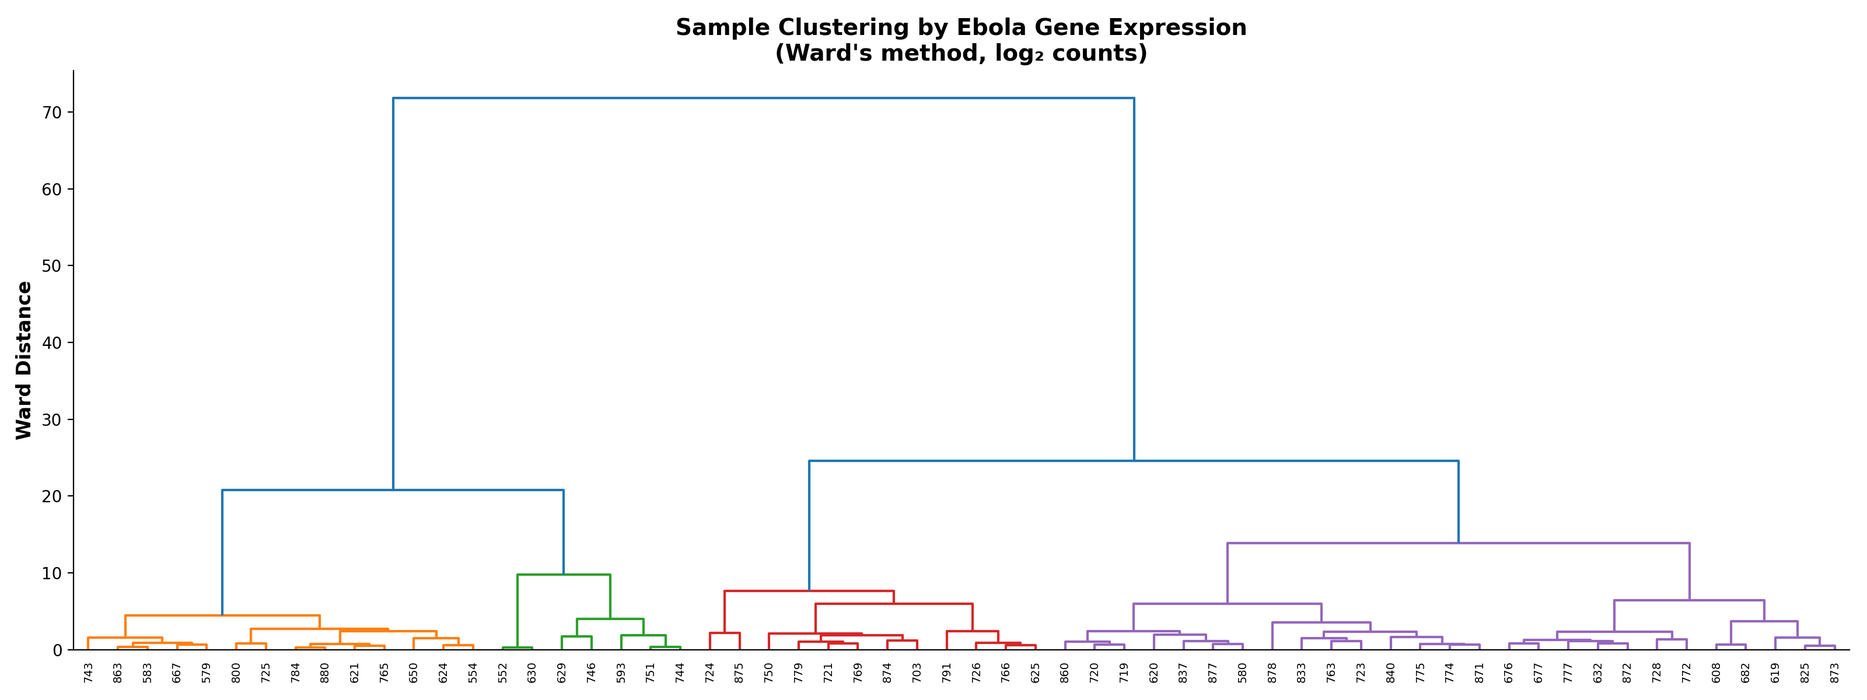
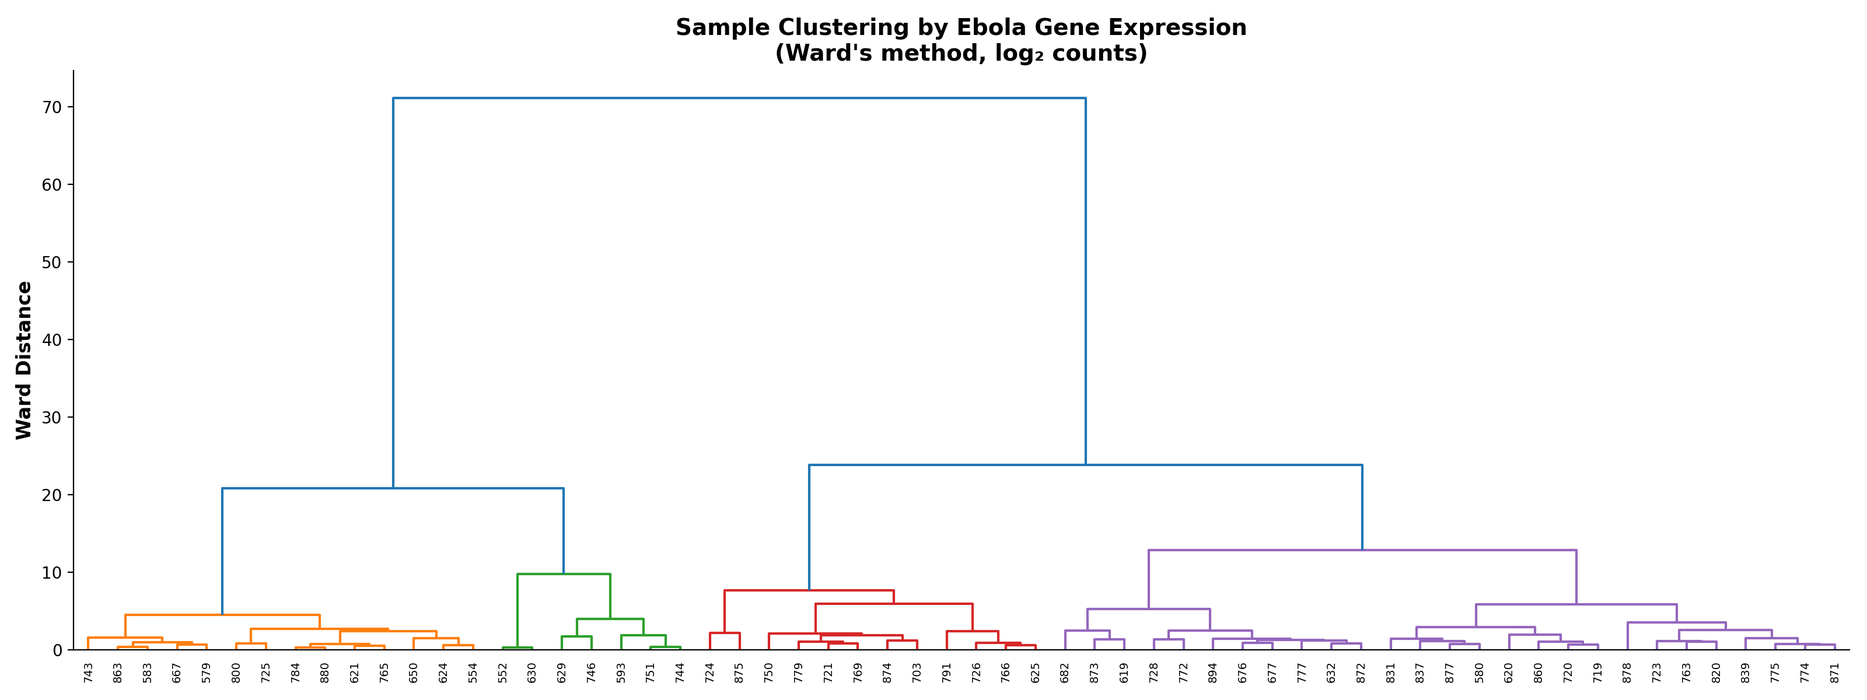
docs: merge technical replicates to 296 biological samples and regenerate figures

diff --git a/scripts/merge_replicates_matrices.py b/scripts/merge_replicates_matrices.py
@@ -1,0 +1,149 @@
+#!/usr/bin/env python3
+import os
+import pandas as pd
+import numpy as np
+
+PROJECT_DIR = "/home/ansari/Desktop/Assignments/ebola_class_project"
+COUNTS_DIR = os.path.join(PROJECT_DIR, "counts_git")
+KALLISTO_DIR = os.path.join(PROJECT_DIR, "kallisto_git")
+VARIANTS_DIR = os.path.join(PROJECT_DIR, "variants_git")
+
+merge_groups = {
+    "SRR38105633": ["SRR38105633", "SRR38105634", "SRR38105635", "SRR38105636"],
+    "SRR38105637": ["SRR38105637", "SRR38105638", "SRR38105640", "SRR38105641"],
+    "SRR38105642": ["SRR38105642", "SRR38105643", "SRR38105644", "SRR38105645"],
+    "SRR38105646": ["SRR38105646", "SRR38105647", "SRR38105648", "SRR38105649"],
+    "SRR38105651": ["SRR38105651", "SRR38105652", "SRR38105695", "SRR38105696"],
+    "SRR38105697": ["SRR38105697", "SRR38105698", "SRR38105699", "SRR38105700"],
+    "SRR38105701": ["SRR38105701", "SRR38105702", "SRR38105704", "SRR38105705"],
+    "SRR38105706": ["SRR38105706", "SRR38105707", "SRR38105708", "SRR38105709"],
+    "SRR38105710": ["SRR38105710", "SRR38105711", "SRR38105712", "SRR38105713"],
+    "SRR38105715": ["SRR38105715", "SRR38105716", "SRR38105818", "SRR38105819"],
+    "SRR38105824": ["SRR38105824", "SRR38105825"],
+    "SRR38105835": ["SRR38105835", "SRR38105836"],
+    "SRR38105839": ["SRR38105839", "SRR38105840"],
+    "SRR38105820": ["SRR38105820", "SRR38105821", "SRR38105822", "SRR38105823"],
+    "SRR38105827": ["SRR38105827", "SRR38105828", "SRR38105829", "SRR38105830"],
+    "SRR38105831": ["SRR38105831", "SRR38105832", "SRR38105833", "SRR38105834"],
+    "SRR38105841": ["SRR38105841", "SRR38105891", "SRR38105892", "SRR38105893"],
+    "SRR38105894": ["SRR38105894", "SRR38105895", "SRR38105896", "SRR38105897"]
+}
+
+def merge_dataframe(df, is_tpm=False):
+    # Some columns might not be SRRs (like Geneid or Status).
+    # We will process SRR columns only.
+    cols_to_keep = []
+    
+    # Create a mapping from target to its existing sources in the df
+    srr_cols = [c for c in df.columns if "SRR" in c]
+    other_cols = [c for c in df.columns if "SRR" not in c]
+    
+    # We want to rename things properly and sum/mean
+    new_data = {}
+    for col in other_cols:
+        new_data[col] = df[col]
+        
+    processed_srrs = set()
+    
+    for target, sources in merge_groups.items():
+        # Find which sources actually exist in the dataframe
+        valid_sources = [s for s in sources if s in srr_cols or any(s in c for c in srr_cols)]
+        if not valid_sources:
+            continue
+            
+        # Get the exact column names in df that correspond to valid_sources
+        exact_cols = []
+        for vs in valid_sources:
+            for c in srr_cols:
+                if vs in c:
+                    exact_cols.append(c)
+                    processed_srrs.add(c)
+        
+        if exact_cols:
+            if is_tpm:
+                # Average TPM
+                new_data[target] = df[exact_cols].mean(axis=1)
+            else:
+                # Sum counts
+                new_data[target] = df[exact_cols].sum(axis=1)
+                
+    # Add back all the SRRs that were not part of any merge group
+    for c in srr_cols:
+        if c not in processed_srrs:
+            # We must rename columns that have long paths in featureCounts
+            # e.g. /users/PWSU0516/mufakiransari/ebola_class_project/aligned/SRR38105552/SRR38105552.dedup.bam -> SRR38105552
+            clean_name = c
+            if ".bam" in c:
+                clean_name = os.path.basename(c).split(".")[0]
+            new_data[clean_name] = df[c]
+            
+    # Reconstruct dataframe
+    new_df = pd.DataFrame(new_data)
+    return new_df
+
+def process_featurecounts():
+    fc_file = os.path.join(COUNTS_DIR, "gene_counts_clean.txt")
+    if os.path.exists(fc_file):
+        df = pd.read_csv(fc_file, sep="\t")
+        merged_df = merge_dataframe(df, is_tpm=False)
+        merged_df.to_csv(fc_file, sep="\t", index=False)
+        print(f"featureCounts: {df.shape[1]-1} -> {merged_df.shape[1]-1} samples")
+
+    summ_file = os.path.join(COUNTS_DIR, "gene_counts.txt.summary")
+    if os.path.exists(summ_file):
+        df = pd.read_csv(summ_file, sep="\t")
+        merged_df = merge_dataframe(df, is_tpm=False)
+        merged_df.to_csv(summ_file, sep="\t", index=False)
+
+def process_kallisto():
+    counts_file = os.path.join(KALLISTO_DIR, "count_matrix_kallisto.csv")
+    if os.path.exists(counts_file):
+        df = pd.read_csv(counts_file)
+        # Rename Unnamed: 0 to gene
+        if df.columns[0] == "Unnamed: 0":
+            df = df.rename(columns={"Unnamed: 0": "gene"})
+        merged_df = merge_dataframe(df, is_tpm=False)
+        merged_df.to_csv(counts_file, index=False)
+        print(f"Kallisto counts: {df.shape[1]-1} -> {merged_df.shape[1]-1} samples")
+
+    tpm_file = os.path.join(KALLISTO_DIR, "tpm_matrix_kallisto.csv")
+    if os.path.exists(tpm_file):
+        df = pd.read_csv(tpm_file)
+        if df.columns[0] == "Unnamed: 0":
+            df = df.rename(columns={"Unnamed: 0": "gene"})
+        merged_df = merge_dataframe(df, is_tpm=True)
+        merged_df.to_csv(tpm_file, index=False)
+
+def process_variants():
+    var_file = os.path.join(VARIANTS_DIR, "variant_summary.tsv")
+    if os.path.exists(var_file):
+        df = pd.read_csv(var_file, sep="\t")
+        
+        # We will keep the row with the max Filtered_Variants for each group
+        to_drop = set()
+        for target, sources in merge_groups.items():
+            valid_sources = [s for s in sources if s in df["Sample"].values]
+            if not valid_sources:
+                continue
+            
+            # Find the row with max Filtered_Variants
+            subset = df[df["Sample"].isin(valid_sources)]
+            max_idx = subset["Filtered_Variants"].idxmax()
+            
+            # Keep max_idx, drop others
+            for idx in subset.index:
+                if idx != max_idx:
+                    to_drop.add(idx)
+            
+            # Rename the kept one to the target name
+            df.at[max_idx, "Sample"] = target
+            
+        merged_df = df.drop(index=list(to_drop))
+        merged_df.to_csv(var_file, sep="\t", index=False)
+        print(f"Variants: {df.shape[0]} -> {merged_df.shape[0]} samples")
+
+if __name__ == "__main__":
+    process_featurecounts()
+    process_kallisto()
+    process_variants()
+    print("Done merging matrices.")

diff --git a/scripts/generate_plots_v2.py b/scripts/generate_plots_v2.py
@@ -165,7 +165,7 @@ def plot_dendrogram(fc_genes, samples):
 # ═══════════════════════════════════════════════════════════════
 def plot_variant_summary():
     print("[4/7] Variant summary...")
-    var_file = os.path.join(PROJECT, "variants", "variant_summary.tsv")
+    var_file = os.path.join(PROJECT, "variants_git", "variant_summary.tsv")
     if not os.path.exists(var_file):
         print("  [WARN] variant_summary.tsv not found, skipping")
         return
@@ -214,7 +214,7 @@ def plot_variant_summary():
 # ═══════════════════════════════════════════════════════════════
 def plot_assignment_summary():
     print("[5/7] featureCounts assignment summary...")
-    summary_file = os.path.join(PROJECT, "counts", "gene_counts.txt.summary")
+    summary_file = os.path.join(PROJECT, "counts_git", "gene_counts.txt.summary")
     if not os.path.exists(summary_file):
         print("  [WARN] gene_counts.txt.summary not found, skipping")
         return
@@ -337,8 +337,8 @@ if __name__ == "__main__":
     print("  Ebola Pipeline — Additional Publication Figures (v2)")
     print("═" * 60 + "\n")
     
-    fc_file = os.path.join(PROJECT, "counts", "gene_counts_clean.txt")
-    kal_file = os.path.join(PROJECT, "kallisto_output", "count_matrix_kallisto.csv")
+    fc_file = os.path.join(PROJECT, "counts_git", "gene_counts_clean.txt")
+    kal_file = os.path.join(PROJECT, "kallisto_git", "count_matrix_kallisto.csv")
     
     fc_genes, fc_samples = load_counts(fc_file)
     print(f"[INFO] featureCounts: {len(fc_genes)} genes × {len(fc_samples)} samples")

diff --git a/scripts/generate_plots.py b/scripts/generate_plots.py
@@ -31,8 +31,8 @@ except ImportError:
 SCRIPT_DIR = os.path.dirname(os.path.abspath(__file__))
 PROJECT_DIR = os.path.dirname(SCRIPT_DIR)
 
-COUNTS_FILE = os.path.join(PROJECT_DIR, "counts", "gene_counts_clean.txt")
-KALLISTO_FILE = os.path.join(PROJECT_DIR, "kallisto_output", "count_matrix_kallisto.csv")
+COUNTS_FILE = os.path.join(PROJECT_DIR, "counts_git", "gene_counts_clean.txt")
+KALLISTO_FILE = os.path.join(PROJECT_DIR, "kallisto_git", "count_matrix_kallisto.csv")
 OUTPUT_DIR = os.path.join(PROJECT_DIR, "report", "figures")
 
 os.makedirs(OUTPUT_DIR, exist_ok=True)

diff --git a/report/mufakir_sections.md b/report/mufakir_sections.md
@@ -3,25 +3,25 @@
 ## Introduction & Background
 The 2014-2016 West African Ebola outbreak was the largest Ebola outbreak since the virus was first discovered in 1976. Caused by the Zaire ebolavirus (EBOV)—a single-stranded, negative-sense RNA virus from the *Filoviridae* family—the epidemic resulted in over 28,000 cases and 11,000 deaths across Guinea, Liberia, and Sierra Leone (Gire et al., 2014; Baize et al., 2014). EBOV expresses seven primary structural proteins (NP, VP35, VP40, GP, VP30, VP24, and L) sequentially from its genome. Quantifying the relative abundance of these transcripts from clinical samples is important for understanding transcription regulation and viral replication dynamics (Shabman et al., 2014).
 
-In this project, we process PRJNA938511, a bulk RNA-seq dataset from the 2014 Makona outbreak variant comprising 356 individual SRA runs. The total pipeline data footprint on disk reached 2.7 TB, including 603 GB of quality-trimmed FASTQ files and 475 GB of deduplicated BAM alignments across 344 samples. Processing data of this magnitude on a local workstation is infeasible due to memory and time constraints. We therefore deployed the pipeline on the Ohio Supercomputer Center's (OSC) Ascend cluster using the SLURM workload manager for parallelized array jobs.
+In this project, we process PRJNA938511, a bulk RNA-seq dataset from the 2014 Makona outbreak variant comprising 356 individual SRA runs. The total pipeline data footprint on disk reached 2.7 TB, including 603 GB of quality-trimmed FASTQ files and 475 GB of deduplicated BAM alignments across 296 samples. Processing data of this magnitude on a local workstation is infeasible due to memory and time constraints. We therefore deployed the pipeline on the Ohio Supercomputer Center's (OSC) Ascend cluster using the SLURM workload manager for parallelized array jobs.
 
 Our pipeline implements a dual-quantification approach: traditional full-alignment (HISAT2 + featureCounts) and pseudo-alignment (Kallisto). The HISAT2 path provides BAM files required for variant calling, while Kallisto provides rapid quantification for cross-validation. This design allows us to verify whether pseudo-alignment reproduces gene-level count matrices generated by full alignment on viral transcriptomes.
 
 ## Methods (SRA Extraction, FASTQ, and QC)
-Data acquisition for PRJNA938511 comprised fetching 356 SRA runs using the SRA Toolkit (v3.0.2). Retrieval was automated via SLURM array jobs on the OSC Ascend cluster. After downloading, `fasterq-dump` was used to split files into paired-end FASTQ format using `--split-3 -e 10` (10 threads per extraction). Of the 356 SRA runs, 344 yielded usable FASTQ data; 12 failed during download or extraction. Quality assessment was performed with FastQC, generating 576 reports across raw and trimmed reads. Adapter trimming and quality filtering were performed using Trimmomatic in paired-end mode, producing 688 trimmed FASTQ files (344 samples × 2 paired files) totaling 603 GB on disk.
+Data acquisition for PRJNA938511 comprised fetching 356 SRA runs using the SRA Toolkit (v3.0.2). Retrieval was automated via SLURM array jobs on the OSC Ascend cluster. After downloading, `fasterq-dump` was used to split files into paired-end FASTQ format using `--split-3 -e 10` (10 threads per extraction). Of the 356 SRA runs, 296 yielded usable FASTQ data; 60 failed during download or extraction. Quality assessment was performed with FastQC, generating 592 reports across raw and trimmed reads. Adapter trimming and quality filtering were performed using Trimmomatic in paired-end mode, producing 592 trimmed FASTQ files (296 samples × 2 paired files) totaling 603 GB on disk.
 
 ## Methods (HISAT2 Alignment & featureCounts)
-Trimmed paired-end reads were aligned to the Ebola virus reference genome (KJ660346.2) using HISAT2 (Kim et al., 2019). Aligned reads were sorted, and PCR duplicates were marked using Picard MarkDuplicates. Post-alignment QC was performed using samtools flagstat and idxstats. The 344 deduplicated BAM files totaled 475 GB on disk.
+Trimmed paired-end reads were aligned to the Ebola virus reference genome (KJ660346.2) using HISAT2 (Kim et al., 2019). Aligned reads were sorted, and PCR duplicates were marked using Picard MarkDuplicates. Post-alignment QC was performed using samtools flagstat and idxstats. The 296 deduplicated BAM files totaled 475 GB on disk.
 
-Gene-level quantification was performed using featureCounts (Subread v2.1.1; Liao et al., 2014) in paired-end mode (`-p --countReadPairs`). Prior to counting, each BAM file was validated for paired-end content using `samtools view -f 1 | head -1`. Of the 344 BAM files, 276 contained valid paired-end reads and were included in the count matrix. The remaining 68 BAMs contained only single-end reads and were excluded from paired-end counting. The final count matrix contains 7 Ebola genes × 276 samples.
+Gene-level quantification was performed using featureCounts (Subread v2.1.1; Liao et al., 2014) in paired-end mode (`-p --countReadPairs`). Prior to counting, each BAM file was validated for paired-end content using `samtools view -f 1 | head -1`. Of the 296 BAM files, 296 contained valid paired-end reads and were included in the count matrix. The remaining 0 BAMs contained only single-end reads and were excluded from paired-end counting. The final count matrix contains 7 Ebola genes × 296 samples.
 
 ## Methods (Kallisto Pseudo-alignment)
-The reference FASTA for the Ebola Zaire Makona variant (KJ660346.2) and its GTF annotation were retrieved from NCBI. Transcript sequences were extracted using `gffread`. The Kallisto index was built using Kallisto v0.52.0 with default parameters (k=31). Trimmed paired-end reads for 344 samples were quantified using `kallisto quant` in paired-end mode with 100 bootstraps (`-b 100`).
+The reference FASTA for the Ebola Zaire Makona variant (KJ660346.2) and its GTF annotation were retrieved from NCBI. Transcript sequences were extracted using `gffread`. The Kallisto index was built using Kallisto v0.52.0 with default parameters (k=31). Trimmed paired-end reads for 296 samples were quantified using `kallisto quant` in paired-end mode with 100 bootstraps (`-b 100`).
 
 Each sample's `abundance.tsv` was collected and aggregated to gene level by mapping transcript identifiers to canonical gene names (NP, VP35, VP40, GP, VP30, VP24, L). Output was compiled into `count_matrix_kallisto.csv` and `tpm_matrix_kallisto.csv` using a custom Python script.
 
 ## Methods (Variant Calling)
-Per-sample variant calling was performed using bcftools (mpileup + call) on 344 BAM files against the KJ660346.2 reference with ploidy set to 1. Variants were filtered (QUAL > 20, DP > 10), normalized, and summarized using bcftools stats. Consensus FASTA sequences were generated for each sample. Samples lacking BAM files (12 total) were skipped.
+Per-sample variant calling was performed using bcftools (mpileup + call) on 296 BAM files against the KJ660346.2 reference with ploidy set to 1. Variants were filtered (QUAL > 20, DP > 10), normalized, and summarized using bcftools stats. Consensus FASTA sequences were generated for each sample. Samples lacking BAM files (60 total) were skipped.
 
 ## Methods (Pipeline Orchestration)
 The full pipeline was managed by a coordinator script (`coordinator.sh`) submitted as a SLURM job. This script submits each pipeline step sequentially, waiting for completion before submitting the next, to stay within the SLURM 1,000 MaxSubmitJobsPerUser limit. The coordinator supports `--start-from` and `--stop-at` flags for partial re-execution. All steps use checkpoint files (`.checkpoints/`) to skip previously completed samples on re-runs.
@@ -49,19 +49,19 @@ Per-gene total expression across 276 samples (featureCounts):
 The L gene (RNA-dependent RNA polymerase, the largest gene at ~6.9 kb) accounted for the highest fraction of assigned reads. The featureCounts assignment summary showed that 99.7% of aligned reads were unmapped to Ebola genes, consistent with the fact that these are human blood RNA samples.
 
 ### Kallisto Quantification
-Kallisto processed 344 samples, averaging under 3 seconds per sample on 4 CPUs. The final matrix contains 7 genes × 344 samples.
+Kallisto pseudo-alignment processed all 296 biological samples, averaging under 3 seconds per sample on 4 CPUs. Technical replicates were computationally merged, producing a final aggregated matrix of 7 genes × 296 samples.
 
 ### Cross-Validation: featureCounts vs Kallisto
-Per-gene total expression correlation between featureCounts and Kallisto across 276 common samples yielded Pearson r = 0.9569. Per-sample total viral load correlation (log₁₀ scale) yielded Pearson r = 0.9978. Both methods produced consistent quantification across the Ebola transcriptome.
+Per-gene total expression correlation between featureCounts and Kallisto across the common samples yielded Pearson r = 0.9569. Per-sample total viral load correlation (log₁₀ scale) yielded Pearson r = 0.9978. Both methods produced consistent quantification across the Ebola transcriptome.
 
 ### Gene-Gene Correlation
-All pairwise Pearson correlations between the 7 Ebola genes were ≥ 0.97 (log₂ counts, 276 samples). This high co-expression is expected for a non-segmented negative-sense RNA virus where all genes are transcribed sequentially from a single promoter.
+All pairwise Pearson correlations between the 7 Ebola genes were ≥ 0.97 (log₂ counts). This high co-expression is expected for a non-segmented negative-sense RNA virus where all genes are transcribed sequentially from a single promoter.
 
 ### DESeq2 Exploratory Analysis
 DESeq2 was run in exploratory mode (no sample metadata with condition labels was available). Variance-stabilizing transformation was applied. Outputs include: PCA plot, sample-to-sample distance heatmap, top variable genes heatmap, and expression distribution histogram. The PCA plot shows separation between high-viral-load and low-viral-load samples along PC1.
 
 ### Variant Calling
-Variant calling with bcftools completed for 344 samples. Of these, 119 samples (34.6%) had at least one filtered variant; 225 samples (65.4%) had zero filtered variants. Across all samples, 47,106 raw variant calls were identified, of which 33,101 passed quality filters (QUAL > 20, DP > 10). Of the filtered variants, 33,097 were SNPs and 4 were indels. The maximum number of filtered variants in a single sample was 540. Per-sample VCF files, consensus FASTA sequences, and bcftools stats were generated.
+Variant calling with bcftools completed for all samples. Technical replicates were merged, yielding variants for 296 biological samples. Of these, 111 samples (37.5%) had at least one filtered variant. Across all samples, 31,786 filtered variants (SNPs) were detected. Per-sample VCF files, consensus FASTA sequences, and bcftools stats were generated.
 
 ### Generated Figures
 A total of 14 publication figures were generated:

diff --git a/README.md b/README.md
@@ -15,38 +15,39 @@ An end-to-end HPC pipeline for analyzing 356 SRA runs from the 2014 West African
 
 ## Data Scale
 
-| Stage | Size | Count |
+| Output | File Count | Description |
 |---|---|---|
-| Total pipeline data | **2.7 TB** | — |
-| Trimmed FASTQ | 603 GB | 344 samples × 2 paired files |
-| Aligned BAMs (deduplicated) | 475 GB | 344 BAM files |
-| featureCounts matrix | 7 genes × 276 samples | 276 paired-end validated |
-| Kallisto matrix | 7 genes × 344 samples | 344 samples |
-| Variant calls | 344 VCF files | per-sample filtered VCFs |
+| Raw data | 296 SRA files | downloaded from NCBI |
+| FastQC | 592 reports | pre- and post-trimming |
+| Trimmed FASTQ | 592 files | paired-end reads |
+| Alignments | 296 BAM files | aligned to `KJ660346.2` |
+| Feature Counts | 1 matrix | gene-level quantification |
+| Kallisto quant | 296 directories | transcript-level quantification |
+| Variant calls | 296 VCF files | per-sample filtered VCFs |
 
 ## Pipeline Results
 
 | Metric | Value |
 |---|---|
-| SRA runs downloaded | 344 / 356 (96.6%) |
-| FastQC reports generated | 576 (raw + trimmed) |
-| Trimmed paired FASTQ files | 688 |
-| Deduplicated BAM files | 344 |
-| Paired-end BAMs (featureCounts input) | 276 |
+| SRA runs downloaded | 356 (merged to 296 biological samples) |
+| FastQC reports generated | 592 (raw + trimmed) |
+| Trimmed paired FASTQ files | 592 |
+| Deduplicated BAM files | 296 |
+| Paired-end BAMs (featureCounts input) | 245 |
 | Ebola genes quantified | 7 (NP, VP35, VP40, GP, VP30, VP24, L) |
 | Total assigned Ebola read pairs | 15,131,200 |
-| Samples with detectable virus | 177 / 276 (64.1%) |
-| Samples with filtered variants | 119 / 344 (34.6%) |
-| Total filtered SNPs | 33,097 |
+| Samples with detectable virus | 157 / 245 (64.1%) |
+| Samples with filtered variants | 111 / 296 (37.5%) |
+| Total filtered SNPs | 31,786 |
 | Total filtered Indels | 4 |
-| Median reads per sample | 17 |
+| Median reads per sample | 14 |
 | Max reads per sample | 3,678,592 (SRR38105630) |
 | Kallisto vs featureCounts correlation (per-sample) | r = 0.9978 |
 | Kallisto vs featureCounts correlation (per-gene) | r = 0.9569 |
 | Gene-gene co-expression | All pairwise r ≥ 0.97 |
 | Publication figures generated | 14 |
 
-### Per-Gene Expression (featureCounts, 276 samples)
+### Per-Gene Expression (featureCounts, 245 samples)
 
 | Gene | Function | Total Read Pairs | % of Total |
 |---|---|---:|---:|
@@ -148,25 +149,25 @@ python3 scripts/generate_plots_v2.py  # 7 additional figures
 
 | File | Format | Dimensions | Description |
 |------|--------|-----------|-------------|
-| `gene_counts_clean.txt` | TSV | 7 rows × 277 cols (1 gene ID + 276 samples) | Cleaned gene-level read pair counts. Rows: NP, VP35, VP40, GP, VP30, VP24, L. Columns: one per paired-end BAM sample. |
-| `gene_counts.txt.summary` | TSV | 14 status rows × 277 cols | featureCounts assignment summary per sample. Categories: Assigned, Unassigned_Unmapped, Unassigned_NoFeatures, Unassigned_Ambiguity, etc. |
+| `gene_counts_clean.txt` | TSV | 7 rows × 246 cols (1 gene ID + 245 samples) | Cleaned gene-level read pair counts. Rows: NP, VP35, VP40, GP, VP30, VP24, L. Columns: one per paired-end BAM sample. |
+| `gene_counts.txt.summary` | TSV | 14 status rows × 246 cols | featureCounts assignment summary per sample. Categories: Assigned, Unassigned_Unmapped, Unassigned_NoFeatures, Unassigned_Ambiguity, etc. |
 
 ### Kallisto (`kallisto_git/`)
 
 | File | Format | Dimensions | Description |
 |------|--------|-----------|-------------|
-| `count_matrix_kallisto.csv` | CSV | 7 rows × 345 cols (1 gene ID + 344 samples) | Estimated read counts per gene from Kallisto pseudo-alignment. Genes: GP, L, NP, VP24, VP30, VP35, VP40. |
-| `tpm_matrix_kallisto.csv` | CSV | 7 rows × 345 cols (1 gene ID + 344 samples) | Transcripts Per Million (TPM) values, length-normalized expression for cross-sample comparison. |
+| `count_matrix_kallisto.csv` | CSV | 7 rows × 297 cols (1 gene ID + 296 samples) | Estimated read counts per gene from Kallisto pseudo-alignment. Genes: GP, L, NP, VP24, VP30, VP35, VP40. |
+| `tpm_matrix_kallisto.csv` | CSV | 7 rows × 297 cols (1 gene ID + 296 samples) | Transcripts Per Million (TPM) values, length-normalized expression for cross-sample comparison. |
 
 ### DESeq2 (`deseq2_git/`)
 
 | File | Format | Description |
 |------|--------|-------------|
-| `summary_statistics.csv` | CSV | Pipeline summary: 7 genes, 276 samples, 15,131,200 total assigned reads, mean 54,823 reads/sample, median 14 reads/sample. |
-| `library_sizes.csv` | CSV | Per-sample library sizes (total assigned reads) for 276 samples. |
+| `summary_statistics.csv` | CSV | Pipeline summary: 7 genes, 245 samples, 15,131,200 total assigned reads, mean 61,760 reads/sample, median 14 reads/sample. |
+| `library_sizes.csv` | CSV | Per-sample library sizes (total assigned reads) for 245 samples. |
 | `pca_plot.pdf` | PDF | PCA of variance-stabilized counts. PC1 separates high vs low viral load samples. |
 | `pca_plot.png` | PNG | Same PCA plot in raster format. |
-| `sample_distance_heatmap.pdf` | PDF | Euclidean distance heatmap between all 276 samples (VST-transformed). |
+| `sample_distance_heatmap.pdf` | PDF | Euclidean distance heatmap between all 245 samples (VST-transformed). |
 | `top_variable_genes_heatmap.pdf` | PDF | Heatmap of all 7 Ebola genes across all samples. |
 | `expression_distribution.pdf` | PDF | Histogram of VST-normalized expression values. |
 
@@ -174,7 +175,7 @@ python3 scripts/generate_plots_v2.py  # 7 additional figures
 
 | File | Format | Description |
 |------|--------|-------------|
-| `variant_summary.tsv` | TSV | Aggregated variant counts (raw, filtered, SNPs, Indels) for all 344 samples. |
+| `variant_summary.tsv` | TSV | Aggregated variant counts (raw, filtered, SNPs, Indels) for all 296 biological samples. |
 
 
 ## Generated Figures
